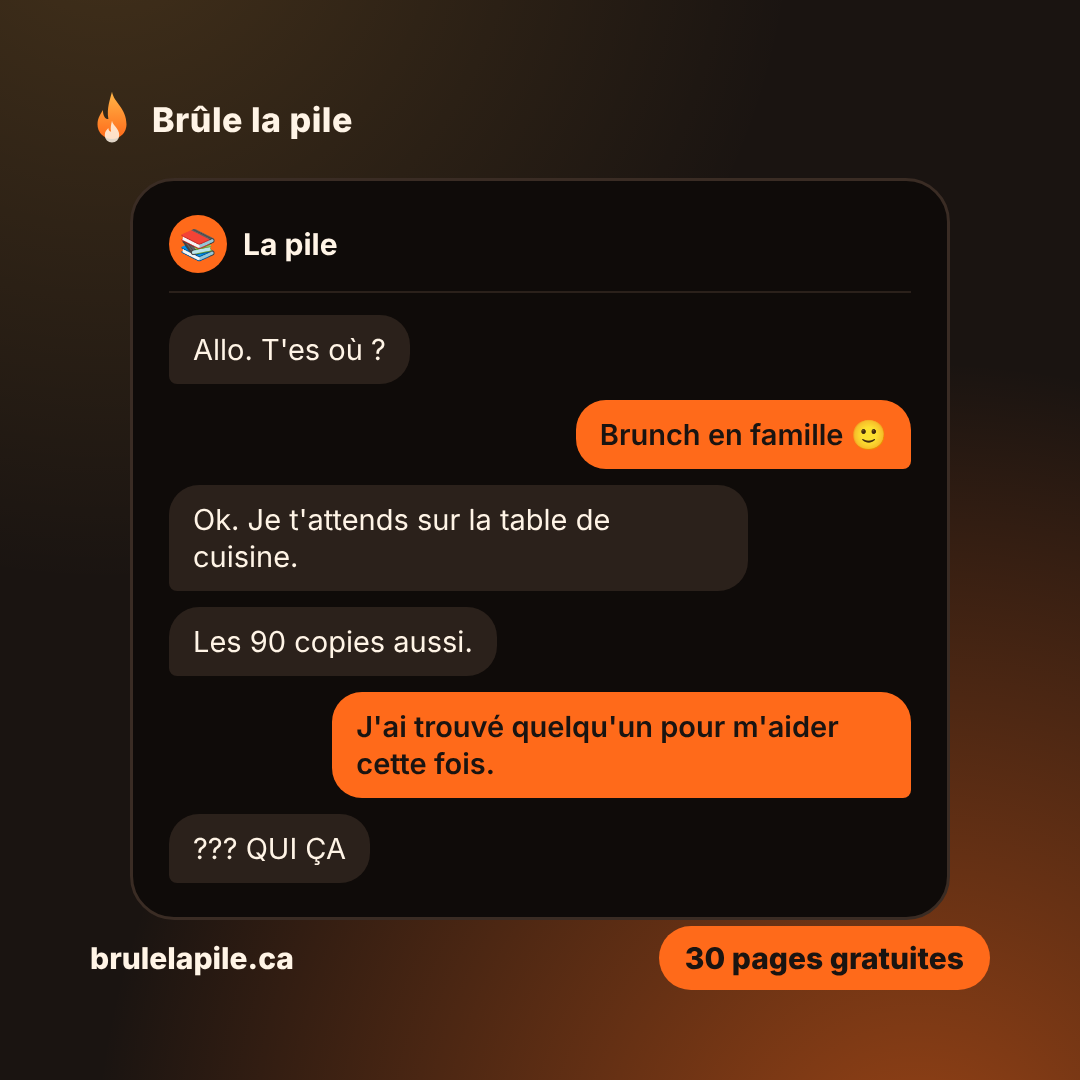
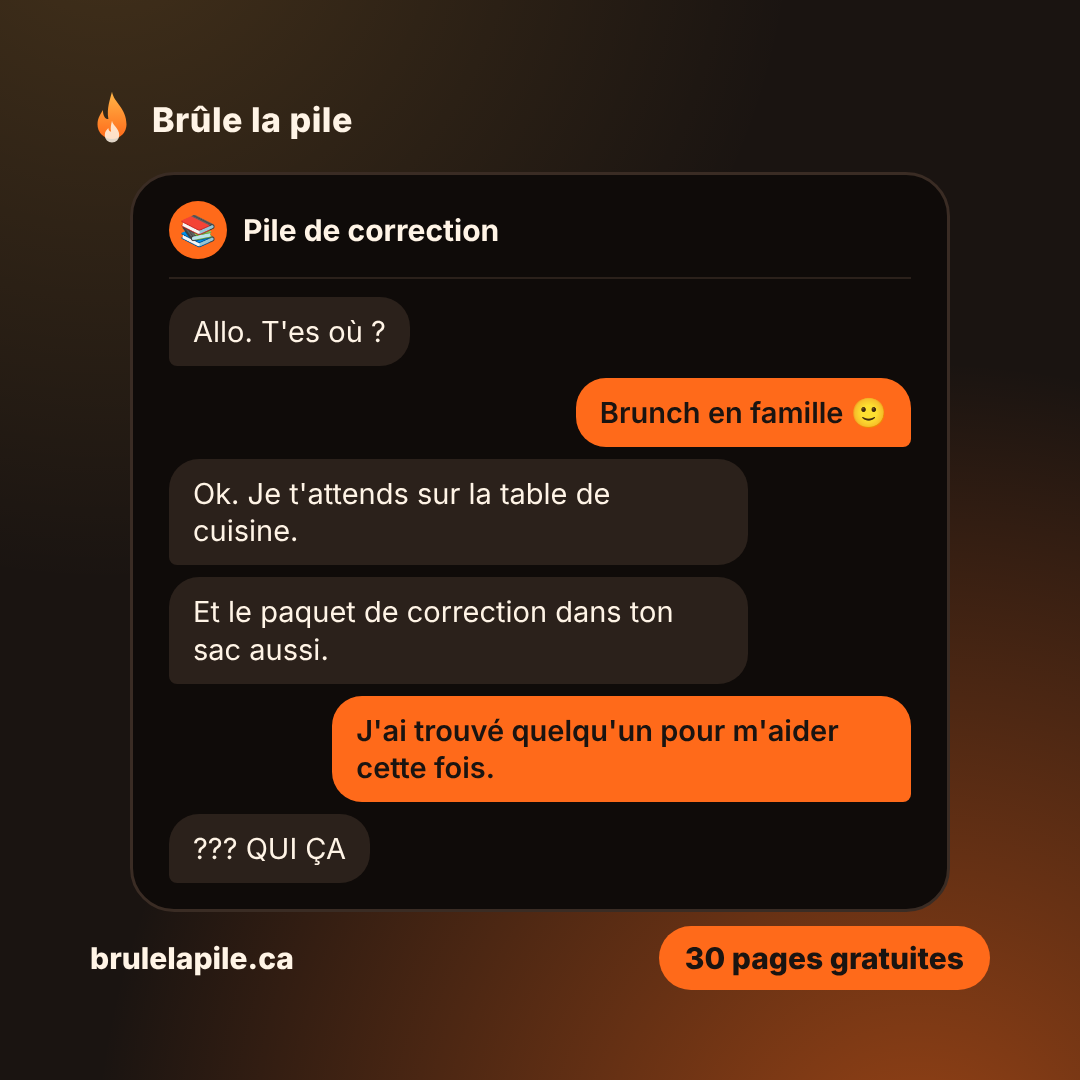
Marketing : personnage « Pile de correction » dans le concept texto
Claude-Session: https://claude.ai/code/session_017jvmmKfnY16JNbZnSUWDjU

diff --git a/marketing/agents/createur.md b/marketing/agents/createur.md
@@ -22,7 +22,7 @@ Le propriétaire a rejeté les premières publications parce qu'elles étaient *
 
 **La méthode :** on détourne un objet de l'univers scolaire ou du quotidien, que tout prof reconnaît en une seconde, et la pile en devient le personnage.
 
-- **La pile est un personnage récurrent** : elle texte, elle a un bulletin, elle a un dossier disciplinaire, elle part en vacances aux Fêtes (enfin).
+- **La « Pile de correction » est un personnage récurrent** (voir `marque.md`) : elle texte, elle a un bulletin, elle a un dossier disciplinaire, elle part en vacances aux Fêtes (enfin).
 - **Objets détournés** (gabarits de `visuels/rendre.mjs`) : `bulletin`, `recu` (reçu de caisse), `texto` (conversation), `emploi` (offre d'emploi). Autres idées à construire : plan d'intervention de la pile, billet de tirage de la direction, note de la secrétaire, avis météo (« alerte pile : 90 copies attendues dimanche »), mémo de la direction, carte de Noël, ordonnance du médecin, menu de la cafétéria, horoscope de fin d'étape.
 - **Chaque fait sur le produit glissé dans la blague** vient de `marque.md` (le reçu : environ 5 $ ; corrigé à 0 $ ; pages qui n'expirent pas ; « Dernier mot : VOUS »).
 - **Au plus 1 publication « classique » par semaine** (astuce ou explication). Les autres utilisent un objet détourné.

diff --git a/marketing/marque.md b/marketing/marque.md
@@ -52,6 +52,10 @@ Brûle la pile aide les enseignants à corriger leur pile de copies : on photogr
 - Des phrases courtes. Au plus 2 emojis par publication.
 - On parle du vécu (la pile sur la table de cuisine le dimanche soir) avant de parler du produit.
 
+## Personnage récurrent
+
+- **« Pile de correction »** : la pile de copies qui texte l'enseignant, l'attend sur la table de cuisine et cache « le paquet de correction dans ton sac ». C'est le nom exact à utiliser (choisi par le propriétaire). Elle tutoie le prof ; le prof lui répond.
+
 ## Visuels
 
 - Couleurs : fond charbon `#1a1411`, orange flamme `#ff6a1a`, ambre `#ffb547`, crème `#fff4e6`. Police Inter.
